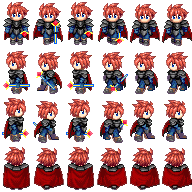
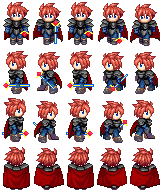
Changed pics slightly to exclude unused frame of combat

diff --git a/src/com/timothyaveni/apcsfinal/client/Entity.java b/src/com/timothyaveni/apcsfinal/client/Entity.java
@@ -75,7 +75,7 @@ public abstract class Entity {
 	public BufferedImage getImage(long frame) {
 		if (!moving) {
 			if (startedAttack) {
-				currentSubImage = image.getSubimage((int) (5 * 32), getLocation().getDirection() * 48, this.getWidth(),
+				currentSubImage = image.getSubimage((int) (4 * 32), getLocation().getDirection() * 48, this.getWidth(),
 						this.getHeight());
 			} else {
 				currentSubImage = image.getSubimage(0, getLocation().getDirection() * 48, this.getWidth(),
